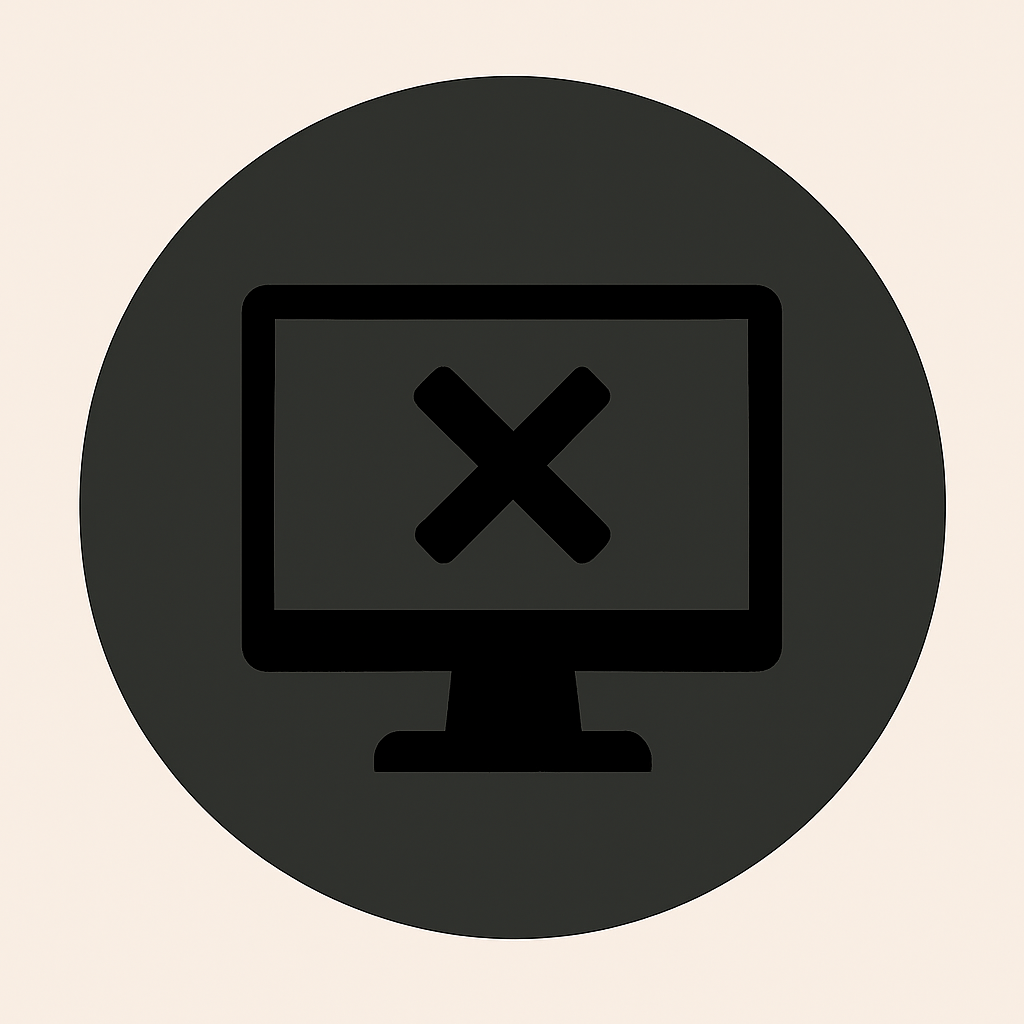
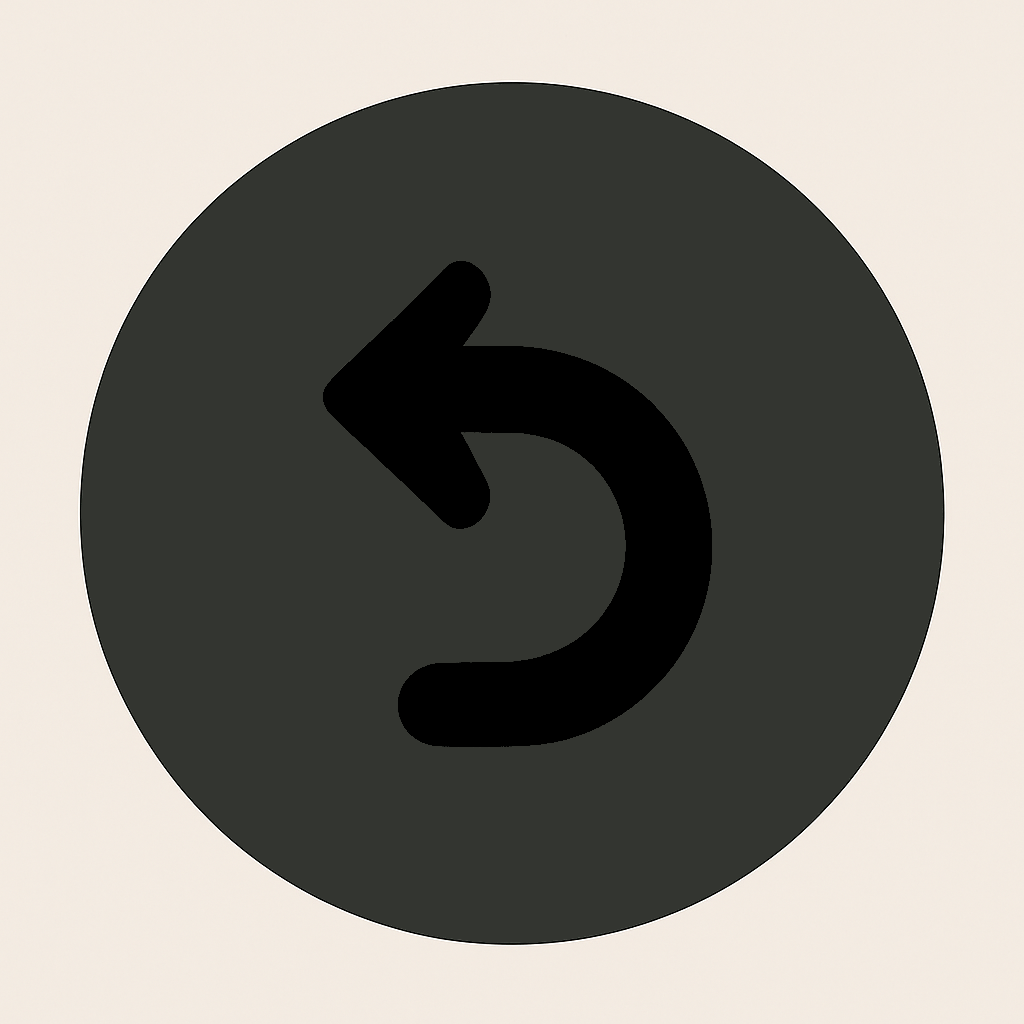
Add Feature to Remote Control

diff --git a/RemoteControl/static/style.css b/RemoteControl/static/style.css
@@ -3,22 +3,34 @@ body {
     font-family: Arial, sans-serif;
     display: flex;
     flex-direction: column;
-    align-items: center;       /* orizzontale */
-    justify-content: center;   /* verticale */
+    align-items: center;
+    justify-content: center;
     text-align: center;
-    background-color: #2b2b2b; /* grigio scuro */
+    background-color: #2b2b2b;
     color: #f0f0f0;
-    height: 80vh;             /* altezza viewport */
+    height: 80vh;
 
-    margin: 0;                 /* elimina margini default */
+    margin: 0;
 
 }
 #everyThing{
 
     display: flex;
     flex-direction: column;
-    align-items: center;       /* orizzontale */
-    justify-content: initial;   /* verticale */
+    align-items: center;
+    justify-content: initial;
+    text-align: center;
+    height: 100%;
+
+}
+#everyThingMouse{
+
+
+    padding-top: 3.5vh;
+    display: flex;
+    flex-direction: column;
+    align-items: center;
+    justify-content: initial;
     text-align: center;
     height: 100%;
 
@@ -37,19 +49,18 @@ button {
     padding: 12px 20px;
     border: none;
     border-radius: 8px;
-    background-color: #555; /* grigio medio */
+    background-color: #555;
     color: white;
     transition: 0.2s;
 }
 
 
 .btn-red {
-    background-color: #ff3b3b; /* rosso principale */
+    background-color: #ff3b3b;
     color: white;
 }
 
 
-/* Pad direzionale */
 .remote-pad {
     position: relative;
     width: 55vw;
@@ -60,14 +71,13 @@ button {
     box-shadow: 0px 0px 10px red;
 }
 
-/* Frecce */
 .arrow {
     position: absolute;
 
     display: flex;
     align-items: center;
     justify-content: center;
-    border: none; /* opzionale, se vuoi rimuovere anche il bordo */
+    border: none;
     border-radius: 50%;
 
 }
@@ -110,7 +120,6 @@ button {
     height: 30vw;
 }
 
-/* Pulsante invio centrale */
 .enter-btn {
     position: absolute;
     top: 50%;
@@ -119,7 +128,7 @@ button {
     width: 17vw;
     height: 17vw;
     border-radius: 50%;
-    background-color: #999; /* grigio chiaro */
+    background-color: #999;
     font-size: 4vw;
     color: black;
     font-weight: bold;
@@ -130,11 +139,27 @@ button {
     display: flex;
     align-items: center;
     justify-content: center;
-    gap: 17vw;
+    gap: 5vw;
     overflow: hidden;
     padding: 7px;
 }
+.FirstRow{
+    display: flex;
+    align-items: center;
+    justify-content: center;
+    gap: 25vw;
+    overflow: hidden;
+    padding: 7px;
+}
+.MouseRow{
 
+    display: flex;
+    align-items: center;
+    justify-content: center;
+    gap: 5vw;
+    overflow: hidden;
+    padding: 30px;
+}
 img{
     border-radius: 50%;
     object-fit: cover;
@@ -157,8 +182,8 @@ img{
       position: relative;
       touch-action: none;
       box-shadow: 0px 0px 10px red;
-      margin-bottom: 60px;
-      margin-top: 60px;
+      margin-bottom: 15px;
+      margin-top: 15px;
 }
 
 .stick {

diff --git a/RemoteControl/templates/remote.html b/RemoteControl/templates/remote.html
@@ -9,9 +9,9 @@
 <body>
 
     <div id="everyThing">
-        <div class="lastRow">
+        <div class="FirstRow">
             <div class="imgButton">
-                <img src="{{ url_for('static', filename='Images/PowerOff.png') }}" onclick="sendWake()">
+                <img src="{{ url_for('static', filename='Images/PowerOff.png') }}" onclick="sendKey('POWEROFF')">
 
             </div>
             <div class="imgButton">
@@ -47,23 +47,28 @@
     </div>
     <div class="lastRow">
         <div class="imgButton">
-            <img src="{{ url_for('static', filename='Images/Space.png') }}" onclick="sendKey('space')">
+            <img src="{{ url_for('static', filename='Images/Pause.png') }}" onclick="sendKey('PAUSE')">
+        </div>
+        <div class="imgButton">
+            <img src="{{ url_for('static', filename='Images/VolumeUp.png') }}" onclick="sendKey('VOLUMEUP')">
+        </div>
+        <div class="imgButton">
+            <img src="{{ url_for('static', filename='Images/Back.png') }}" onclick="sendKey('BACK')">
+        </div>
+    </div>
+    <br id="brBeetwenButtons">
+    <div class="lastRow">
+        <div class="imgButton">
+            <img src="{{ url_for('static', filename='Images/Home.png') }}" onclick="sendKey('HOME')">
 
         </div>
         <div class="imgButton">
-            <img src="{{ url_for('static', filename='Images/Esc.png') }}" onclick="sendKey('esc')">
+            <img src="{{ url_for('static', filename='Images/VolumeDown.png') }}" onclick="sendKey('VOLUMEDOWN')">
+        </div>
+        <div class="imgButton">
+            <img src="{{ url_for('static', filename='Images/CloseSoftware.png') }}" onclick="sendKey('CLOSESOFTWARE')">
         </div>
     </div>
-        <br id="brBeetwenButtons">
-        <div class="lastRow">
-            <div class="imgButton">
-                <img src="{{ url_for('static', filename='Images/Home.png') }}" onclick="sendKey('home')">
-
-            </div>
-            <div class="imgButton">
-                <img src="{{ url_for('static', filename='Images/Back.png') }}" onclick="sendKey('back')">
-            </div>
-        </div>
     </div>
 
 

diff --git a/RemoteControl/templates/mouse.html b/RemoteControl/templates/mouse.html
@@ -7,13 +7,11 @@
     <meta name="viewport" content="width=device-width, initial-scale=1.0">
 </head>
 <body>
-    <div id="everyThing">
-        <div class="lastRow">
+    <div id="everyThingMouse">
+        <div class="MouseRow">
             <div class="imgButton">
                 <img src="{{ url_for('static', filename='Images/Remote.png') }}" onclick="remote()">
-
             </div>
-
         </div>
 
 
@@ -22,13 +20,22 @@
         </div>
 
 
-        <div class="lastRow">
+        <div class="MouseRow">
                 <div class="imgButton">
-                    <img src="{{ url_for('static', filename='Images/MouseLeft.png') }}" onclick="sendKey('mouseLeft')">
+                    <img src="{{ url_for('static', filename='Images/MouseLeft.png') }}" onclick="sendKey('LEFTCLICK')">
 
                 </div>
+                 <div class="volume">
+                     <div class="imgButton">
+                        <img src="{{ url_for('static', filename='Images/VolumeUp.png') }}" onclick="sendKey('VOLUMEUP')">
+                    </div>
+                     <br id="brBeetwenButtons">
+                     <div class="imgButton">
+                        <img src="{{ url_for('static', filename='Images/VolumeDown.png') }}" onclick="sendKey('VOLUMEDOWN')">
+                    </div>
+                </div>
                 <div class="imgButton">
-                    <img src="{{ url_for('static', filename='Images/MouseRight.png') }}" onclick="sendKey('mouseRight')">
+                    <img src="{{ url_for('static', filename='Images/MouseRight.png') }}" onclick="sendKey('RIGHTCLICK')">
                 </div>
         </div>
     </div>

diff --git a/RemoteControl/app.py b/RemoteControl/app.py
@@ -1,13 +1,13 @@
 import socket
 
 from flask import Flask, render_template, jsonify, request
-from wakeonlan import send_magic_packet
 
 app = Flask(__name__)
 
 # Configurazione PC da accendere (dummy dati per ora)
 PC_MAC = "f4:4e:e3:0e:05:92"
-PC_IP= "host.docker.internal"
+#PC_IP= "host.docker.internal"
+PC_IP= "127.0.0.1"
 PC_PORT = 5000
 REMOTE_PORT = 5001
 @app.route("/")
@@ -17,20 +17,15 @@ def index():
 def mouse():
     return render_template("mouse.html")
 
-@app.route("/wake", methods=["POST"])
-def wake_pc():
-    try:
-        send_magic_packet(PC_MAC)
-        return jsonify({"status": "ok", "message": "Wake-on-LAN sent!"})
-    except Exception as e:
-            return jsonify({"status": "error", "message": str(e)}), 500
+
 
 def send_key_to_pc(command):
     sock = socket.socket(socket.AF_INET, socket.SOCK_DGRAM)
     sock.sendto(command.encode(), (PC_IP, PC_PORT))
+
 @app.route("/key/<name>", methods=["POST"])
 def press_key(name):
-    allowed_keys = ["up", "down", "left", "right", "enter", "back", "home", "esc", "space","mouseLeft", "mouseRight"]
+    allowed_keys = ["LEFTCLICK","RIGHTCLICK","PAUSE","BACK","SCROLLUP","SCROLLDOWN","VOLUMEDOWN","VOLUMEUP","CLOSESOFTWARE","ENTER", "HOME", "POWEROFF"]
     if name in allowed_keys:
         send_key_to_pc(name)
         return jsonify({"status": "ok", "message": f"Button {name} sent"})
@@ -45,7 +40,6 @@ def mouse_move():
 
 
     command = f"MOUSE:{dx},{dy}"
-    print(command)
     send_key_to_pc(command)
     return jsonify(success=True)
 
